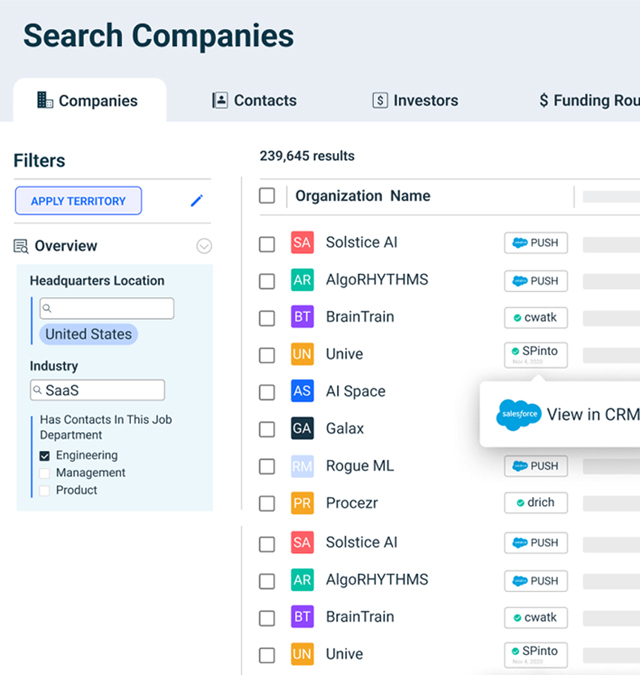
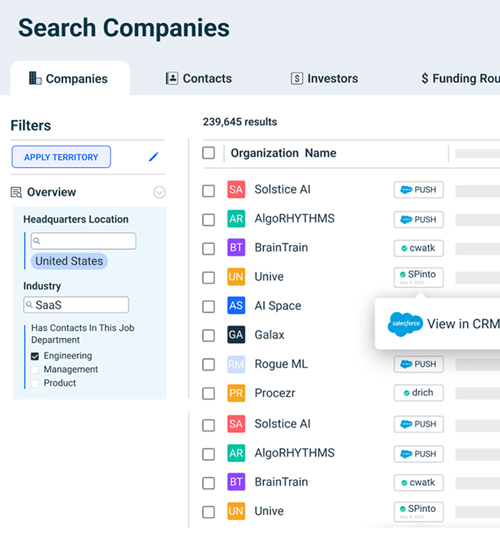
content img updation

diff --git a/src/components/b2b-data/B2BDirectDials.jsx b/src/components/b2b-data/B2BDirectDials.jsx
@@ -1,6 +1,6 @@
 import React,{useState} from "react";
 // import B2BDirectDialsImage from "../../assets/images/executive-search-propect-icon.jpg"
-import B2BDirectDialsImage from "../../assets/images/prospect-search.jpg"
+import B2BDirectDialsImage from "../../assets/images/b2b-direct-dials.jpg"
 
 
 const B2BDirectDials=()=>{
@@ -11,7 +11,7 @@ const B2BDirectDials=()=>{
             <div className="row py-lg-4">
                 <div className="col-lg-6 section-width align-self">
 				{/* <img src={B2BDirectDialsImage} alt="" title=""/> */}
-                    <h3 className="title-style pr-xl-5">Identify the Right Prospects</h3>
+                    <h3 className="title-style pr-xl-5">Direct Dials:</h3>
                     <p className="mt-lg-4 mt-3 pb-3"> BeyondLedz offers <strong>‘Direct Dials’</strong> that are associated with a specific person or job function within a company. Direct Dials are  used by companies to contact potential customers directly, by bypassing gatekeepers or other intermediaries within an organization. Direct dials is a valuable feature  for businesses looking to reach out to decision-makers or other key executive functions by having a direct line of communication.
 </p>
 <p className="mt-lg-4 mt-3 pb-3">Direct Dials is a  critical resource for businesses looking to identify and engage with potential customers that are most likely to convert into paying customers. Company search, executive search, corporate email ids, and direct dials are just a few of the key features of BeyondLeadz that  businesses can use to target their sales and marketing efforts more effectively.

diff --git a/src/assets/css/style-starter.css b/src/assets/css/style-starter.css
@@ -19211,7 +19211,6 @@ h4.small-text-banner {
   position: relative;
   transition: all 0.5s ease 0s;
   border-color: #DADADA;
-  border-style: dotted;
 }
 
 .box-wrap:hover {
@@ -19317,7 +19316,7 @@ h4.number {
   position: absolute;
   /*border: 10px solid var(--secondary-color);*/
   border: 10px solid var(--primary-color);
-  right: -45px;
+  right: 5px; /* -45px */
   left: 45px;
   bottom: 45px;
   top: -45px;
@@ -19418,7 +19417,7 @@ h4.number {
   position: absolute;
   /*border: 10px solid var(--secondary-color);*/
   border: 10px solid var(--primary-color);
-  right: -45px;
+  right: 5px; /* -45px */
   left: 45px;
   bottom: 45px;
   top: -45px;

diff --git a/src/components/b2b-data/B2BCorporateEmailIds.jsx b/src/components/b2b-data/B2BCorporateEmailIds.jsx
@@ -1,6 +1,6 @@
 import React,{useState} from "react";
 import ExecutiveSearchIconImage from "../../assets/images/executive-search-leads-icon.jpg"
-import B2BCorporateEmailIdsImage from "../../assets/images/third-party-application-integration.jpg"
+import B2BCorporateEmailIdsImage from "../../assets/images/b2b-corporate-email-ids.jpg"
 
 const B2BCorporateEmailIds = () => {
     return (

diff --git a/src/components/b2b-data/B2BExecutiveSearch.jsx b/src/components/b2b-data/B2BExecutiveSearch.jsx
@@ -1,6 +1,6 @@
 import React,{useState} from "react";
 import ExecutiveSearchConnect from '../../assets/images/executive-search-connect-icon.jpg'
-import B2BExecutiveSearchImage from "../../assets/images/internal-systems-integration.jpg"
+import B2BExecutiveSearchImage from "../../assets/images/b2b-executive-search.jpg"
 
 const B2BExecutiveSearch = () => {
     return(

diff --git a/src/components/b2b-data/B2BCompanySearch.jsx b/src/components/b2b-data/B2BCompanySearch.jsx
@@ -1,5 +1,5 @@
 import React,{useState} from "react";
-import B2BCompanySearchImage from '../../assets/images/crm-integration.jpg'
+import B2BCompanySearchImage from '../../assets/images/b2b-company-search.jpg'
 // import CompnySearchIconImage from '../../assets/images/executive-search-company-icon.jpg'
 
 const B2BCompanySearch=()=>{
